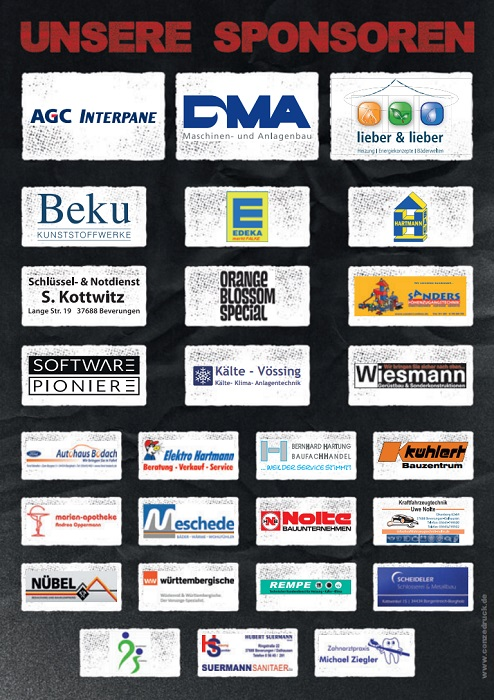
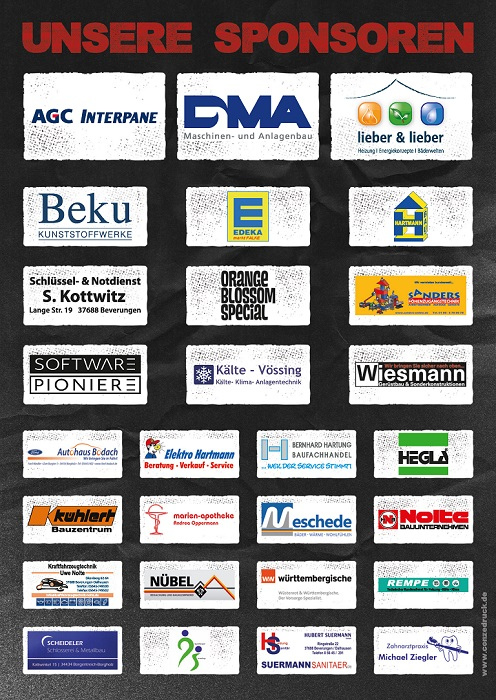
flyer update

diff --git a/_pages/partner.md b/_pages/partner.md
@@ -45,12 +45,13 @@ Wir bedanken und bei unseren Partnern und Sponsoren. Ohne Euch wäre unser klein
 
 ## Silber Partner
 
-
 [![Autohaus Bodach](/assets/partner-logos/bodach-web.jpg){: .center-image }](https://www.ford-bodach-borgentreich.de)
 
 [![Elektro Hartmann](/assets/partner-logos/elektro-hartmann.jpg){: .center-image }](http://www.elektro-hartmann.de)
 
 [![Baumarkt Hartung](/assets/partner-logos/hartung.png){: .center-image }](https://www.baumarkt-hartung.de)
+
+[![HEGLA](/assets/partner-logos/hegla.png){: .center-image }](https://hegla.com/)
 
 [![Bauzentrum Kühlert](/assets/partner-logos/kuehlert_web.jpg){: .center-image }](https://www.kuehlert.de/)
 
@@ -112,7 +113,6 @@ Wir bedanken und bei unseren Partnern und Sponsoren. Ohne Euch wäre unser klein
 <!-- [![Haarbude](/assets/partner-logos/haarbude_web.jpg)](https://haarbude.de) -->
 <!-- [![Bauer & Humburg Bauelemente](/assets/partner-logos/bundh.png)](https://b-h-bauelemente.de) -->
 <!-- [![Decker Massivholzmöbel](/assets/partner-logos/teamdecker-logo-web.png)](https://decker.de) -->
-<!-- [![HEGLA](/assets/partner-logos/hegla.png)](https://hegla.com/) -->
 <!-- ![Gasthaus Groll](/assets/partner-logos/groll.png) -->
 <!-- [![Tischlerei Pape](/assets/partner-logos/pape_web.png)](http://www.tischlerei-pape.com) -->
 <!-- ![Bröker und Nolte](/assets/partner-logos/broeker-nolte.png) -->
